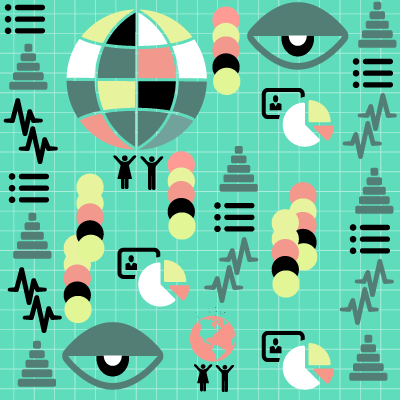
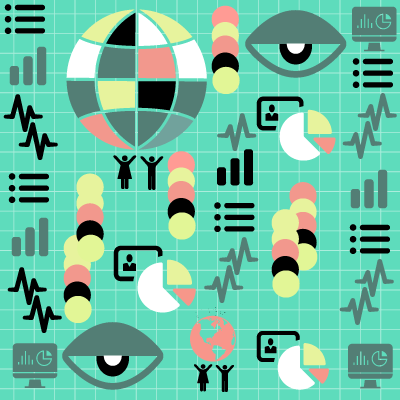
imagen destacado cambio

diff --git a/wp-content/themes/wplms/css/style.css b/wp-content/themes/wplms/css/style.css
@@ -3754,7 +3754,7 @@ span.wpcf7-form-control-wrap{
 
 /** Home **/
 .page-id-24 > .global > .pusher > #content {
-    background: rgba(0, 0, 0, 0) url("/wp-content/themes/wplms/images/Accountability_in-Health.gif") repeat scroll left -15px !important;
+    background: rgba(0, 0, 0, 0) url("/wp-content/themes/wplms/images/pattern-ogp.png") repeat scroll left -15px !important;
 }
 .content.no {
     background: none repeat scroll 0 0 rgba(237, 238, 243, 0) !important;
